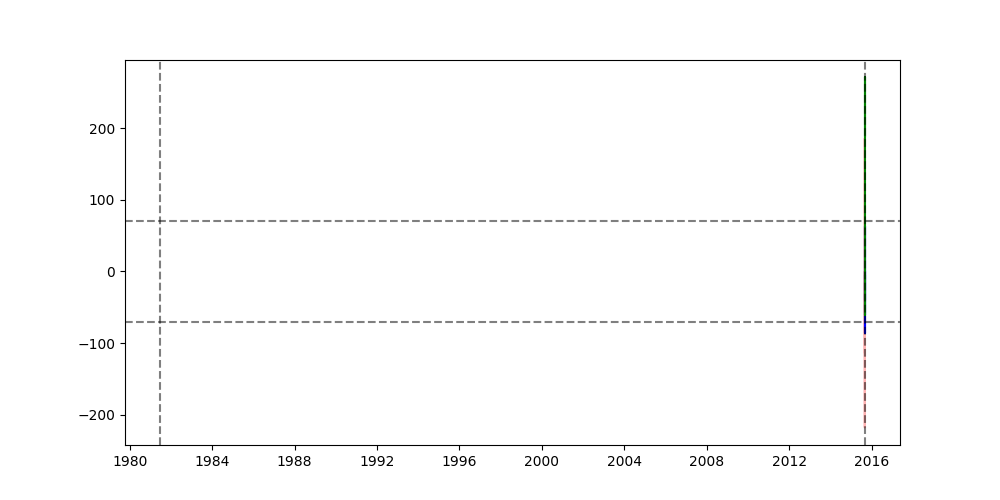
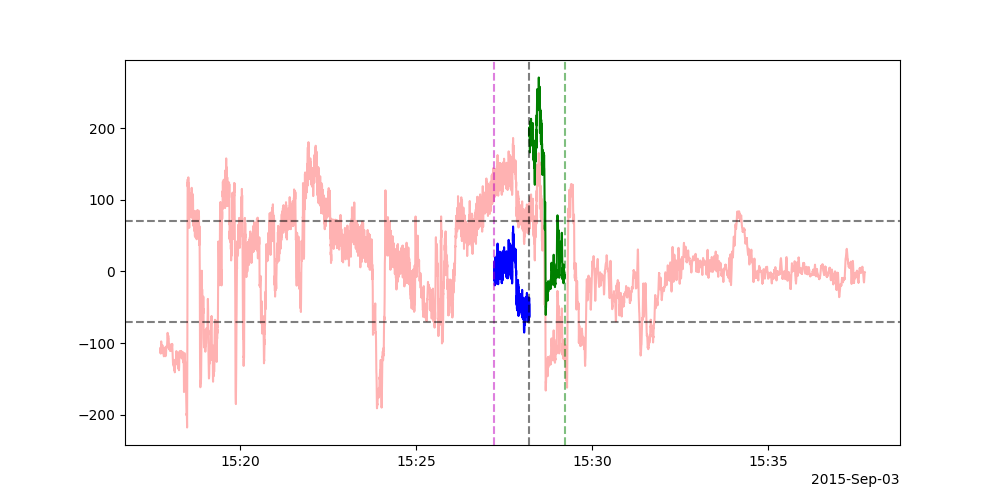
new file:   delta_v_2015-09-03 15:28:13.051454848+00:00.png 	modified:   jet_reversal_quick_check_function_beta.py 	modified:   test.png

diff --git a/codes/jet_reversal_quick_check_function_beta.py b/codes/jet_reversal_quick_check_function_beta.py
@@ -899,27 +899,29 @@ def check_jet_location(df_mms=None, jet_len=3, time_cadence_median=0.15, v_thres
         else:
             print(f'\n\033[1;31m No jet found at {t_jet_center}\033[0m \n')
 
-    print(f'Jet detection: {jet_detection}')
-    print(f't jet center: {t_jet_center}')
-    print(f't jet center minus 1 min: {t_jet_center_minus_1_min}')
-    print(f't jet center plus 1 min: {t_jet_center_plus_1_min}')
+
     # Plot vp_lmn_diff_l, delta_v_max, delta_v_min, v_max_median, and v_min_median
     plt.figure(figsize=(10, 5))
     plt.plot(vp_lmn_diff_l, 'r-', alpha=0.3)
-    plt.plot(delta_v_max, 'b-', alpha=1)
-    plt.plot(delta_v_min, 'g-', alpha=1)
+    plt.plot(delta_v_max, 'b-', alpha=1, label='$\\Delta v{\\rm max}$')
+    plt.plot(delta_v_min, 'g-', alpha=1, label='$\\Delta v{\\rm min}$')
     # Draw a vertical line at t_jet_center
-    plt.axvline(ind_jet_center, color='k', linestyle='--', alpha=0.5)
+    plt.axvline(t_jet_center, color='k', linestyle='--', alpha=0.5)
     # Draw a vertical line at t_jet_center_minus_1_min
-    plt.axvline(t_jet_center_minus_1_min, color='k', linestyle='--', alpha=0.5)
+    plt.axvline(t_jet_center_minus_1_min, color='m', linestyle='--', alpha=0.5)
     # Draw a vertical line at t_jet_center_plus_1_min
-    #plt.axvline(t_jet_center_plus_1_min, color='k', linestyle='--', alpha=0.5)
+    plt.axvline(t_jet_center_plus_1_min, color='g', linestyle='--', alpha=0.5)
     # Draw a horizontal line at v_thresh
     plt.axhline(v_thresh, color='k', linestyle='--', alpha=0.5)
     # Draw a horizontal line at -v_thresh
     plt.axhline(-v_thresh, color='k', linestyle='--', alpha=0.5)
+    plt.title(f"Different delta as a function of time at {t_jet_center}")
+    plt.xlabel("Time [UTC]")
+    plt.ylabel("$\\Delta V$ [km/s]")
+    plt.legend(loc=1)
+    save_folder = "../figures/"
+    plt.savefig(f"delta_v_{t_jet_center}.png", dpi=300, bbox_inches='tight', pad_inches=0.1, transparent=True, facecolor='w', edgecolor='w', orientation='landscape')
 
-    plt.savefig('test.png')
     plt.close()
     return (jet_detection, delta_v_min, delta_v_max, t_jet_center, ind_jet_center,
             ind_jet_center_minus_1_min, ind_jet_center_plus_1_min, vp_lmn_diff_l)
